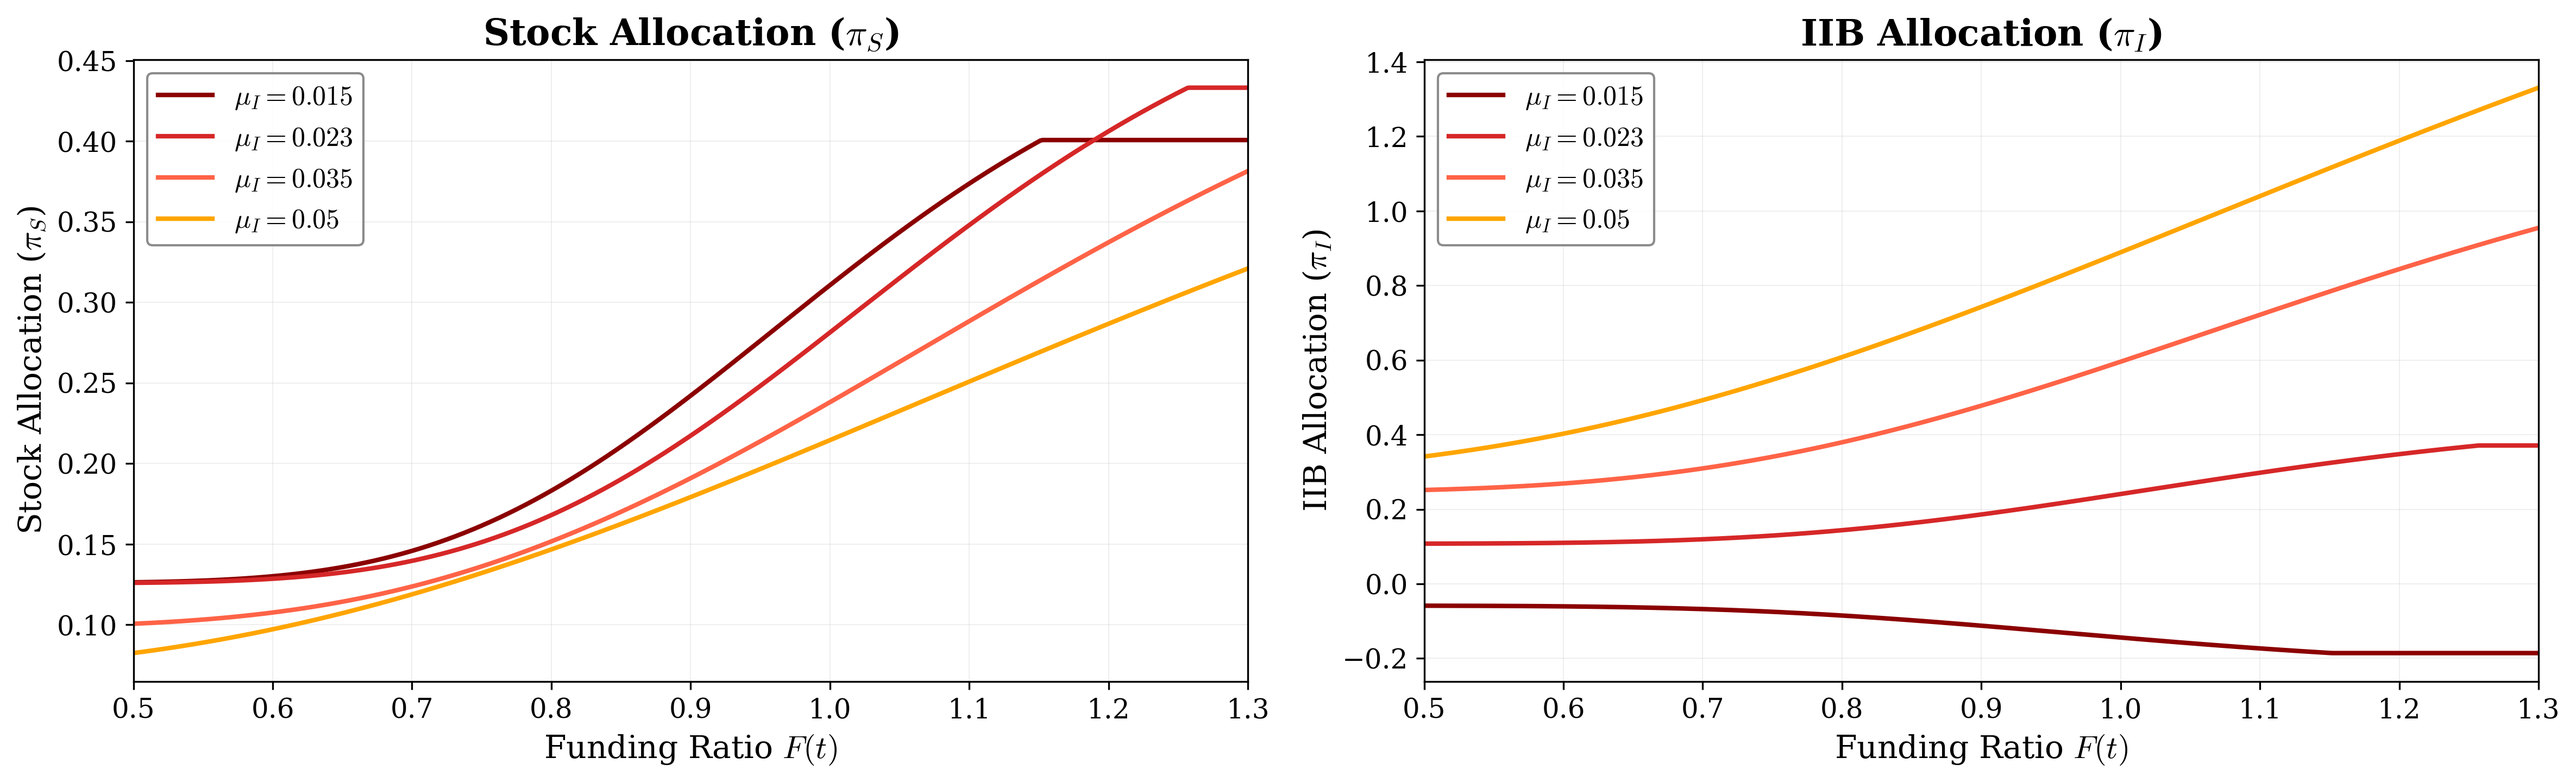
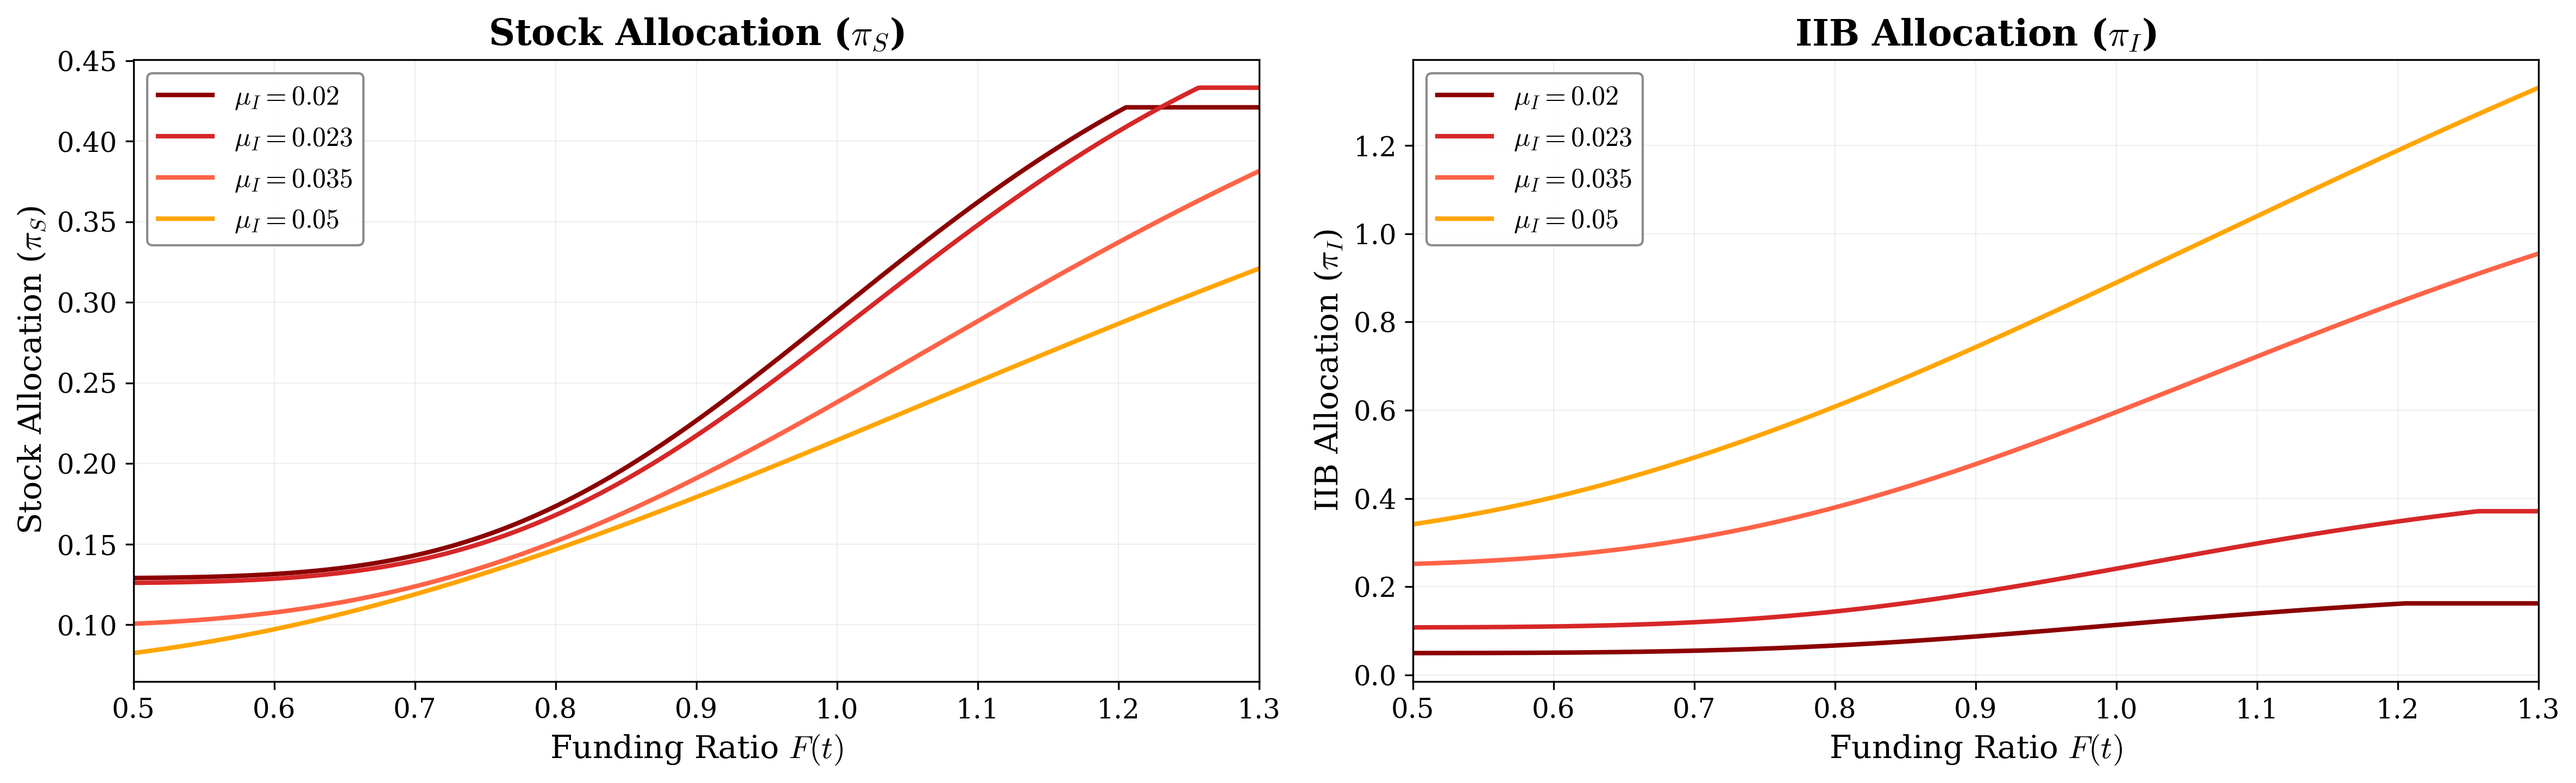
mu_I sensitivity 하한을 0.015 → 0.02로 수정
mu_I=0.015/0.017에서 pi_I(IIB)가 음수(short)로 나옴.
mu_I=0.02부터 pi_I가 양수로 전환되어 경제적으로 합리적.

https://claude.ai/code/session_01QBQkK9CYa7PCUCG7dDx5be

diff --git a/scripts/generate_paper_figures.py b/scripts/generate_paper_figures.py
@@ -490,7 +490,7 @@ def plot_group_B():
 # ── Group C: Expected Inflation (mu_I) ───────────────────────
 
 def plot_group_C():
-    mu_Is = [0.015, 0.023, 0.035, 0.05]
+    mu_Is = [0.02, 0.023, 0.035, 0.05]
     warm = WARM_PALETTE[:4]
 
     # C1: ES total allocation by mu_I — warm palette
